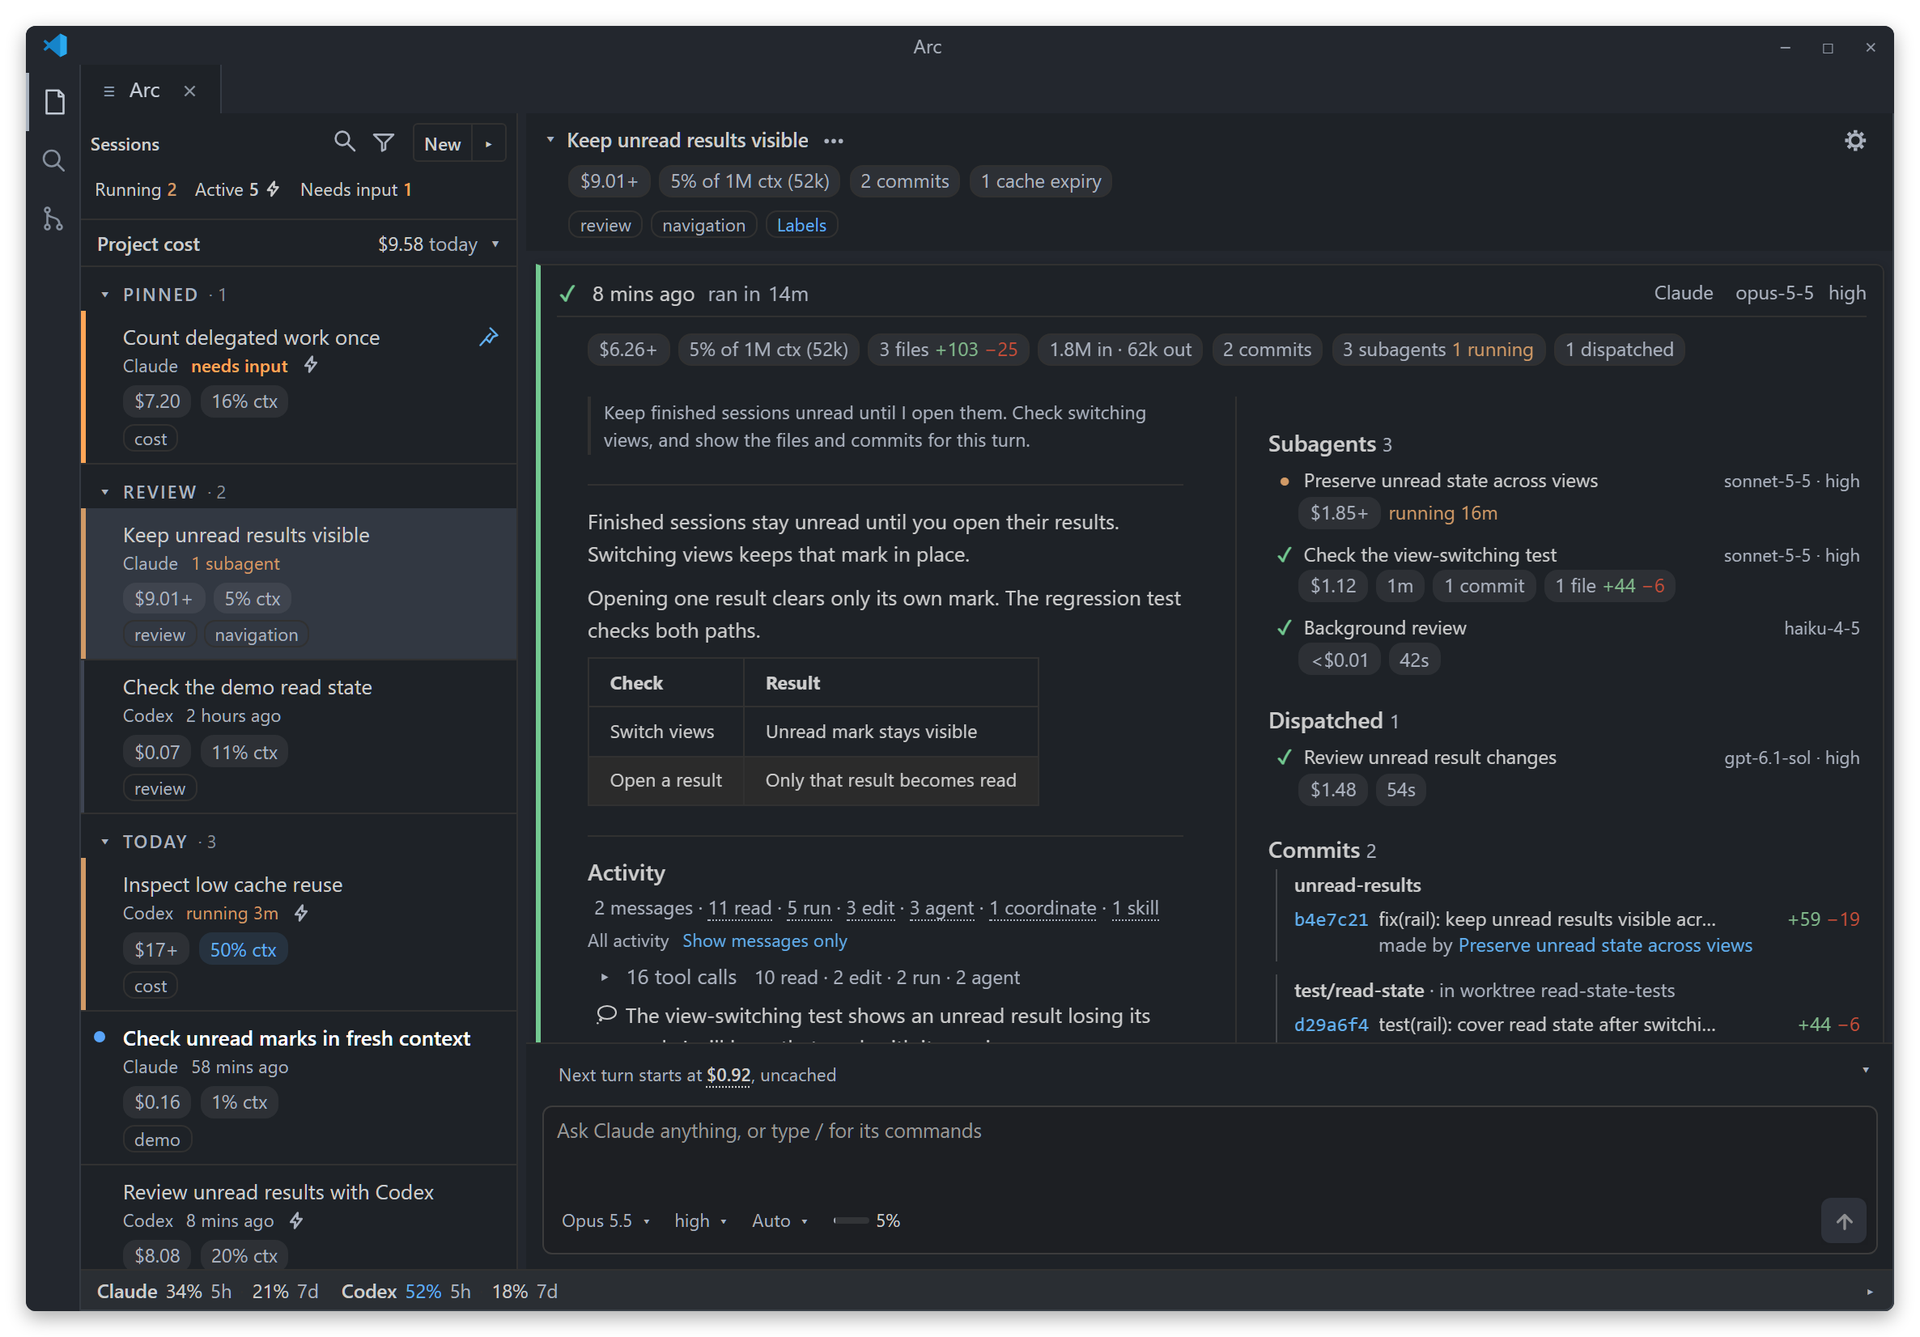
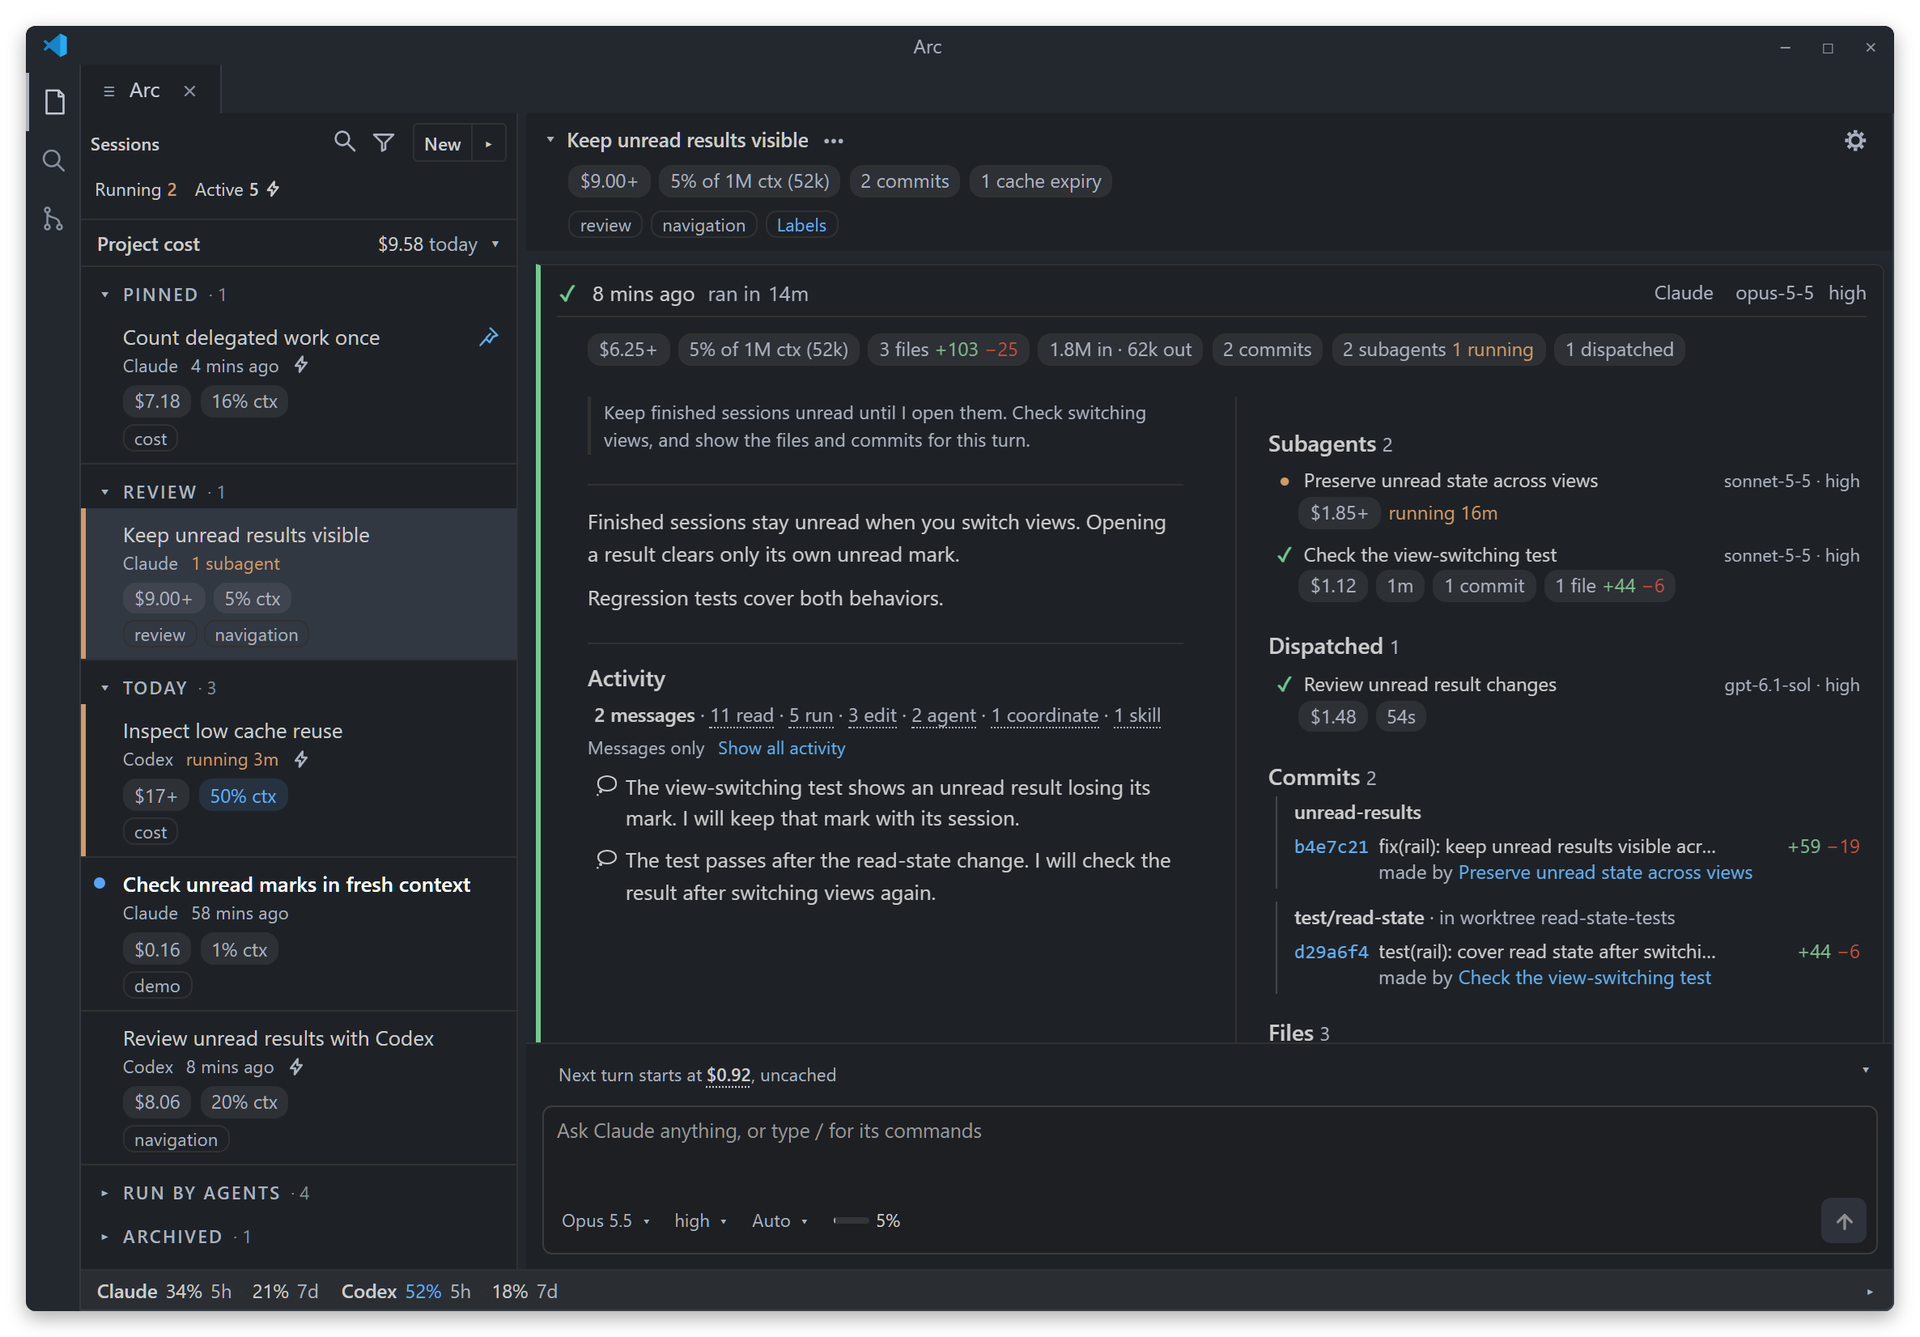
feat(demo): simplify sample sessions and subagents
Regression-of: 33cdf538772b4cf7db35b3bc917dfaf385a7f823
Regression-of: 8267a344cf23d3fc0858f7577d21b025fbb2cc10

diff --git a/extension/scripts/readme-fixture.ts b/extension/scripts/readme-fixture.ts
@@ -33,7 +33,6 @@ import { DEMO_DEFAULTS, DEMO_MODELS } from './demo-catalog.ts';
 import type { PinnedSetup } from '../src/domain/session-setups.ts';
 import type { RailCard, RailStatus, SessionParentEdge } from '../src/turnrail.ts';
 import { RAIL_FOLDS } from '../src/view/rail.ts';
-import type { Ask } from '../src/agentwire.ts';
 import { addUsage } from '../src/agentspend.ts';
 
 export const CAPTURE_TIME = Date.parse('2026-09-15T14:42:00-05:00');
@@ -672,16 +671,19 @@ const README_USAGE: AgentUsage[] = [
 
 const DEMO_SKILL_PATH = `${ROOT}/.claude/skills/review-changes/SKILL.md`;
 
+const readStateAgents: Turn['agents'] = readStateTurn.agents.map((agent) =>
+  agent.id === 'luna-tests'
+    ? { ...agent, childSessionId: 'arc-luna-read-state-tests' }
+    : agent.id === 'sol-implementation'
+      ? { ...agent, status: 'running', startedAt: demoSolStartedAt, spendPartial: true, durationMs: null }
+      : agent,
+);
+
 const demoCodexReadStateTurn: Turn = {
   ...readStateTurn,
-  agents: readStateTurn.agents.map((agent) =>
-    agent.id === 'luna-tests'
-      ? { ...agent, childSessionId: 'arc-luna-read-state-tests' }
-      : agent.id === 'sol-implementation'
-        ? { ...agent, status: 'running', startedAt: demoSolStartedAt, spendPartial: true, durationMs: null }
-        : agent,
-  ),
-  summary: `${readStateTurn.summary}\n\n| Check | Result |\n| --- | --- |\n| Switch views | Unread mark stays visible |\n| Open a result | Only that result becomes read |`,
+  agents: readStateAgents.filter((agent) => agent.id !== 'background-review'),
+  summary:
+    'Finished sessions stay unread when you switch views. Opening a result clears only its own unread mark.\n\nRegression tests cover both behaviors.',
   steps: [
     { ordinal: 16, name: 'rg', detail: 'read-state view-switching test', at: start + 3 * 60_000, status: 'done' },
     {
@@ -699,16 +701,15 @@ const demoCodexReadStateTurn: Turn = {
       status: 'done',
     },
     { ordinal: 19, name: 'npm test', detail: 'read-state test passed', at: start + 8 * 60_000, status: 'done' },
-    { ordinal: 20, name: 'Agent', detail: 'Check view-switching behavior', at: start + 9 * 60_000, status: 'done' },
     {
-      ordinal: 21,
+      ordinal: 20,
       name: 'Send message',
       detail: 'Review the read-state result',
       at: start + 11 * 60_000,
       status: 'done',
     },
     {
-      ordinal: 22,
+      ordinal: 21,
       name: 'Read',
       detail: 'extension/src/webview/read-state.test.ts',
       at: start + 12 * 60_000,
@@ -716,7 +717,7 @@ const demoCodexReadStateTurn: Turn = {
     },
     // Codex reads SKILL.md through a command. The fixture includes that command and its best-effort skill use.
     {
-      ordinal: 23,
+      ordinal: 22,
       name: 'exec_command',
       detail: `Get-Content ${DEMO_SKILL_PATH}`,
       at: start + 12.5 * 60_000,
@@ -734,8 +735,8 @@ const demoCodexReadStateTurn: Turn = {
     }),
   ],
   skillUseCount: 1,
-  toolUses: 23,
-  toolCounts: { ...readStateTurn.toolCounts, commands: readStateTurn.toolCounts.commands + 1 },
+  toolUses: 22,
+  toolCounts: { ...readStateTurn.toolCounts, commands: readStateTurn.toolCounts.commands + 1, agents: 2 },
   updates: [
     {
       sourceId: 'demo-read-state-start',
@@ -754,7 +755,7 @@ const demoCodexReadStateTurn: Turn = {
       status: 'done',
     },
   ],
-  stepCount: 23,
+  stepCount: 22,
   stepKinds: [
     'edits',
     'edits',
@@ -775,7 +776,6 @@ const demoCodexReadStateTurn: Turn = {
     'commands',
     'edits',
     'commands',
-    'agents',
     'coordination',
     'reads',
     'commands',
@@ -792,7 +792,7 @@ const demoReadStateTurn: Turn = {
   outputRateBasis: 'request',
   contextWindow: 1_000_000,
   agents: demoCodexReadStateTurn.agents.map((agent) => {
-    const model = agent.id === 'background-review' ? 'claude-haiku-4-5-20251001' : 'claude-sonnet-5-5';
+    const model = 'claude-sonnet-5-5';
     return {
       ...agent,
       model,
@@ -801,20 +801,20 @@ const demoReadStateTurn: Turn = {
         milliseconds: agent.id === 'background-review' ? 8_000 : agent.id === 'luna-tests' ? 40_000 : 120_000,
       },
       outputRateModel: model,
-      effort: agent.id === 'background-review' ? null : 'high',
+      effort: 'high',
       spend: agent.spend.map((part) => ({ ...part, model })),
     };
   }),
   steps: [
     ...demoCodexReadStateTurn.steps.map((step) =>
-      step.ordinal === 23
+      step.ordinal === 22
         ? { ...step, name: 'Skill', detail: 'review-changes' }
         : step.ordinal === 16
           ? { ...step, name: 'Read', detail: 'extension/src/webview/read-state.test.ts' }
           : step,
     ),
     {
-      ordinal: 24,
+      ordinal: 23,
       name: 'Bash',
       detail: 'codex exec --json --model gpt-6.1-sol -c model_reasoning_effort=high "Review the read-state change"',
       at: start + 12.6 * 60_000,
@@ -824,14 +824,14 @@ const demoReadStateTurn: Turn = {
   skillUses: demoCodexReadStateTurn.skillUses.map((use) =>
     skillUse({ sourceId: use.sourceId, name: use.name, description: use.description, path: use.path, at: use.at }),
   ),
-  stepCount: 24,
+  stepCount: 23,
   stepKinds: [
     ...demoCodexReadStateTurn.stepKinds.map((kind, index) =>
-      index === 22 ? SKILL_STEP_KIND : kind === 'searches' ? 'reads' : kind,
+      index === 21 ? SKILL_STEP_KIND : kind === 'searches' ? 'reads' : kind,
     ),
     'commands',
   ],
-  toolUses: 24,
+  toolUses: 23,
   toolCounts: {
     ...demoCodexReadStateTurn.toolCounts,
     reads: demoCodexReadStateTurn.toolCounts.reads + demoCodexReadStateTurn.toolCounts.searches,
@@ -997,11 +997,13 @@ export const DEMO_TURNS: Record<string, Turn[]> = {
       usage: expiryUsage,
       finished: true,
       // Remove these subagent links so only the unread-results session opens Preserve unread state.
-      agents: readStateTurn.agents.map((agent) => {
-        const unlinked = { ...agent };
-        delete unlinked.childSessionId;
-        return unlinked;
-      }),
+      agents: readStateTurn.agents
+        .filter((agent) => agent.id !== 'background-review')
+        .map((agent) => {
+          const unlinked = { ...agent };
+          delete unlinked.childSessionId;
+          return unlinked;
+        }),
       files: [file('extension/src/turncard.ts', 28, 6)],
     }),
     ...expiryHistory.slice(1).map((item) => ({
@@ -1451,28 +1453,8 @@ export const DEMO_LABELS: Readonly<Record<string, readonly string[]>> = {
   'delegated-cost': ['cost'],
   'arc-demo-sketch': [],
   'arc-demo-dispatch': ['demo'],
-  'arc-demo-review': ['review'],
+  'arc-demo-review': [],
   'arc-demo-continuation': ['demo'],
-};
-
-const DEMO_NAVIGATION_QUESTION: Ask = {
-  kind: 'question',
-  id: 'restored-tab-navigation',
-  toolUseId: 'restored-tab-navigation',
-  input: {},
-  questions: [
-    {
-      id: 'navigation-case',
-      question: 'Which file navigation case do you want checked next?',
-      header: 'File navigation',
-      options: [
-        { label: 'Restored session tab', description: 'Check file navigation after reopening the session tab.' },
-        { label: 'Active session tab', description: 'Check file navigation in the open session tab.' },
-      ],
-      multiSelect: false,
-      secret: false,
-    },
-  ],
 };
 
 export function demoPayload(sessionId: string): Record<string, unknown> {
@@ -1528,7 +1510,6 @@ export function demoPayload(sessionId: string): Record<string, unknown> {
     : sessionParentOf(rows, demoParentEdges, selected);
   const sketch = DEMO_TURNS['arc-demo-sketch'][0];
   const statuses = new Map<string, RailStatus>([
-    ['delegated-cost', 'waiting'],
     ['arc-read-state', 'subagents'],
     ['arc-sol-read-state', 'running'],
     ['arc-cache-run', 'running'],
@@ -1628,8 +1609,8 @@ export function demoPayload(sessionId: string): Record<string, unknown> {
     onScreen: draft,
     queued: [],
     history: [],
-    running: !item.finished || selected === 'delegated-cost',
-    asks: selected === 'delegated-cost' ? [DEMO_NAVIGATION_QUESTION] : [],
+    running: !item.finished,
+    asks: [],
     comments,
     sessionId: selected,
     models: DEMO_MODELS[item.agent],
@@ -1795,7 +1776,7 @@ export function readmePayload(scene: (typeof README_SCENES)[number] = 'main'): R
           : scene === 'cache'
             ? cacheTurn
             : scene === 'review'
-              ? { ...readStateTurn, agents: demoCodexReadStateTurn.agents }
+              ? { ...readStateTurn, agents: readStateAgents }
               : scene === 'files'
                 ? readmeFilesTurn
                 : readStateTurn;

diff --git a/extension/src/web-demo.browser.test.ts b/extension/src/web-demo.browser.test.ts
@@ -516,7 +516,10 @@ describe('read-only web demo', () => {
     await page.goto(`${base}/arc-vscode/`);
     await page.locator('[data-control="rail:arc-read-state"]').first().waitFor();
     const failedRun = page.locator('.activitysec button.actrow.run[data-control$=":run:17"]');
+    await page.locator('.activitysec .actviewaction').click();
     await failedRun.waitFor();
+    expect(await failedRun.getAttribute('aria-expanded')).toBe('false');
+    await failedRun.click();
     expect(await failedRun.getAttribute('aria-expanded')).toBe('true');
     if (process.env.ARC_DEMO_SHOTS) {
       fs.mkdirSync(process.env.ARC_DEMO_SHOTS, { recursive: true });
@@ -774,7 +777,7 @@ describe('read-only web demo', () => {
       page.on('request', (request) => requests.push(request.url()));
       await page.goto(`${base}/`);
       await page.locator('[data-control="picker"]').waitFor();
-      await page.locator('.activitysec button.actrow.run[data-control$=":run:17"][aria-expanded="true"]').waitFor();
+      await page.locator('#list .turn .cardrecord').first().waitFor();
       if (process.env.ARC_DEMO_SHOTS) {
         fs.mkdirSync(process.env.ARC_DEMO_SHOTS, { recursive: true });
         await page.screenshot({ path: path.join(process.env.ARC_DEMO_SHOTS, 'narrow.png'), fullPage: true });
@@ -926,13 +929,17 @@ describe('read-only web demo', () => {
     expect(await page.locator('[data-control="rail:arc-cache-run"]').count()).toBeGreaterThan(0);
     await page.locator('[data-control="raillens:all"]').click();
     await page.keyboard.press('Escape');
+    await page.locator('[data-control="rail:arc-cache-run"]').first().click();
     await page.locator('[data-control="railsearch"]').click();
     await page.locator('.railfilter').fill('label:review');
     await page.waitForFunction(() => document.querySelector('.railfilter')?.getAttribute('aria-invalid') !== 'true');
     await page.locator('[data-control="railviewsave"]').click();
     await page.locator('.railfilter').fill('Review work');
     await page.locator('.railfilter').press('Enter');
-    await page.locator('[data-control="rail:arc-demo-review"]').first().click();
+    await page.locator('[data-control="rail:arc-read-state"]').first().click();
+    await page.waitForFunction(() =>
+      document.querySelector('.sessionheading')?.textContent?.includes('Keep unread results visible'),
+    );
     expect(await page.locator('.railfilter').inputValue()).toBe('label:review');
     await page.locator('[data-control="railclear"]').click();
     expect(await page.locator('.railbucket').filter({ hasText: 'Review work' }).count()).toBeGreaterThan(0);
@@ -996,9 +1003,15 @@ describe('read-only web demo', () => {
     await page.keyboard.press('Escape');
     await page.locator('#labelpop').waitFor({ state: 'hidden' });
 
+    await page.locator('[data-control="railruns"]').click();
     await page.locator('[data-control="rail:arc-demo-review"]').first().hover();
     await page.locator('[data-control="raillabels:arc-demo-review"]').first().click();
     const review = page.locator('#labelpop input[data-control="label:review"]');
+    expect(await review.isChecked()).toBe(false);
+    await review.click();
+    await page.keyboard.press('Escape');
+    await page.locator('[data-control="rail:arc-demo-review"]').first().hover();
+    await page.locator('[data-control="raillabels:arc-demo-review"]').first().click();
     expect(await review.isChecked()).toBe(true);
     await review.click();
     await page.waitForFunction(
@@ -1009,8 +1022,6 @@ describe('read-only web demo', () => {
           ?.includes('review'),
     );
     await page.keyboard.press('Escape');
-    await page.locator('[data-control="railruns"]').click();
-
     await page.locator('[data-control="rail:arc-demo-review"]').first().click();
     await page.waitForFunction(() => document.querySelector('[data-control="sessionlabels:arc-demo-review"]'));
     expect(await headingLabels.count()).toBe(0);
@@ -1205,7 +1216,7 @@ describe('read-only web demo', () => {
     await page.locator('[data-control="view-name"]').fill('Navigation work');
     await page.locator('[data-control="view-order"]').selectOption('cost-desc');
     await page.locator('[data-control="view-save"]').click();
-    await page.locator('[data-control="rail:arc-demo-review"]').first().click();
+    await page.locator('[data-control="rail:arc-cache-run"]').first().click();
     await page.locator('[data-control="viewmenu:review"]').click();
     await page.locator('.demo-menu').getByRole('menuitem', { name: 'Edit view', exact: false }).click();
     expect(await page.locator('[data-control="view-name"]').inputValue()).toBe('Navigation work');

diff --git a/extension/src/panel-shots.test.ts b/extension/src/panel-shots.test.ts
@@ -217,6 +217,9 @@ test('demo samples keep dispatched costs and reader-started usage separate from 
   };
   const before = README_SCENES.map((scene) => readmePayload(scene));
   const samples = DEMO_SESSION_IDS.map((id) => demoPayload(id) as DemoPayload);
+  assert.ok(Object.values(DEMO_TURNS).flat().every((item) => item.agents.every((agent) => agent.id !== 'background-review')));
+  assert.equal(DEMO_TURNS['arc-read-state'][0].agents.filter((agent) => agent.status === 'running').length, 1);
+  assert.ok(DEMO_TURNS['arc-read-state'][0].agents.some((agent) => agent.status !== 'running' && agent.artifacts?.files.length && agent.commits?.length));
   assert.deepEqual(DEMO_SESSION_IDS.slice(-3), ['arc-demo-dispatch', 'arc-demo-review', 'arc-demo-continuation']);
   assert.equal(samples[0].showing, 'arc-read-state');
   assert.equal(samples[0].cards[0].agent, 'Claude');
@@ -297,7 +300,7 @@ test('demo selections keep available setups, cache facts, and their own prompt t
   }
   const main = demoPayload('arc-read-state') as Payload;
   assert.equal(main.usage.launcher.primary!.profile.model, 'opus');
-  assert.match(main.cards[0].summaryHtml, /<table>/);
+  assert.doesNotMatch(main.cards[0].summaryHtml, /<table>/);
   assert.deepEqual(DEMO_SESSION_IDS.filter((id) => id === 'arc-open-changes' || id === 'session-search'), []);
   const cost = demoPayload('delegated-cost') as Payload;
   assert.equal(cost.cards.length, 4);
@@ -305,7 +308,7 @@ test('demo selections keep available setups, cache facts, and their own prompt t
 });
 
 test('default demo review command supports direct Codex dispatch recognition', () => {
-  const launch = DEMO_TURNS['arc-read-state'][0].steps.find((step) => step.ordinal === 24);
+  const launch = DEMO_TURNS['arc-read-state'][0].steps.find((step) => step.ordinal === 23);
   assert.ok(launch);
   assert.deepEqual(claudeLaunchKind(launch.detail, 'bash'), { kind: 'codex-native', count: 1 });
 });
@@ -387,7 +390,7 @@ test('demo catalogs, permissions, groups and running children match production i
   assert.equal(review.stats['arc-read-state'].find((chip) => chip.metric === 'cost')!.label, review.cards[0].chips.find((chip) => chip.metric === 'cost')!.label);
   assert.equal(review.rail.find((row) => row.id === 'arc-sol-read-state')!.runningSince, child.cards[0].startedAt);
   const waiting = main.rail.filter((row) => row.status === 'waiting');
-  assert.deepEqual(waiting.map((row) => row.id), ['delegated-cost']);
+  assert.deepEqual(waiting.map((row) => row.id), []);
   for (const row of main.rail) {
     const selected = demoPayload(row.id) as { showing: string; usage: { composer: ComposerView } };
     assert.equal(selected.showing, row.id);
@@ -699,7 +702,6 @@ test('default demo history keeps distinct turns and provider-scoped expiry evide
   assert.equal(DEMO_TURNS['arc-demo-sketch'][0].model, 'gpt-6.1-sol');
   assert.equal(DEMO_TURNS['arc-demo-sketch'][0].effort, 'high');
   assert.ok(DEMO_TURNS['arc-read-state'][0].agents.some((agent) => agent.model === 'claude-sonnet-5-5'));
-  assert.ok(DEMO_TURNS['arc-read-state'][0].agents.some((agent) => agent.model?.startsWith('claude-haiku-4-5')));
   assert.ok(child.cards[0].startedAt >= main.cards[0].startedAt);
   assert.ok(child.cards[0].endedAt <= main.cards[0].endedAt);
   const dollars = main.stats['arc-read-state'].find((chip) => chip.metric === 'cost')!.dollars!;

diff --git a/extension/scripts/web-demo-adapter.js b/extension/scripts/web-demo-adapter.js
@@ -35,24 +35,6 @@
     document.body.style.setProperty('--demo-header-height', `${header.getBoundingClientRect().height}px`);
   new ResizeObserver(headerSize).observe(header);
   headerSize();
-  let activityOpened = false;
-  let failedRunOpened = false;
-  const activityObserver = new MutationObserver(() => {
-    if (selected !== 'arc-read-state') return;
-    if (!activityOpened) {
-      const showAll = document.querySelector('.activitysec .actviewaction');
-      if (!showAll) return;
-      activityOpened = true;
-      showAll.click();
-    }
-    if (failedRunOpened) return;
-    const failedRun = document.querySelector('.activitysec button.actrow.run[data-control$=":run:17"]');
-    if (!failedRun) return;
-    failedRunOpened = true;
-    failedRun.click();
-    activityObserver.disconnect();
-  });
-  activityObserver.observe(document.getElementById('list'), { childList: true, subtree: true });
   const RealDate = Date;
   window.Date = class SampleDate extends RealDate {
     constructor(...args) {

diff --git a/extension/src/panel.webview.test.ts b/extension/src/panel.webview.test.ts
@@ -28393,7 +28393,7 @@ test('selection and accepted worker results avoid unnecessary catalog walks', ()
   );
   sourceMatch(
     refresh,
-    /const payload = selectedOnly\s*\? selectionPayload\(\{ \.\.\.payloadInput, previousShowing: hostPreviousSession \}\)\s*:\s*renderPayload\(payloadInput\);/,
+    /const payload = selectedOnly\s*\? selectionPayload\(\{ \.\.\.payloadInput, previousShowing: hostPreviousSession \}\)\s*:\s*renderPayload\(\{ \.\.\.payloadInput, projectSpend: this\.projectSpendPayload\(\) \}\);/,
     'a selected-session update still sends fields that choosing another session cannot change',
   );
   assert.equal(
